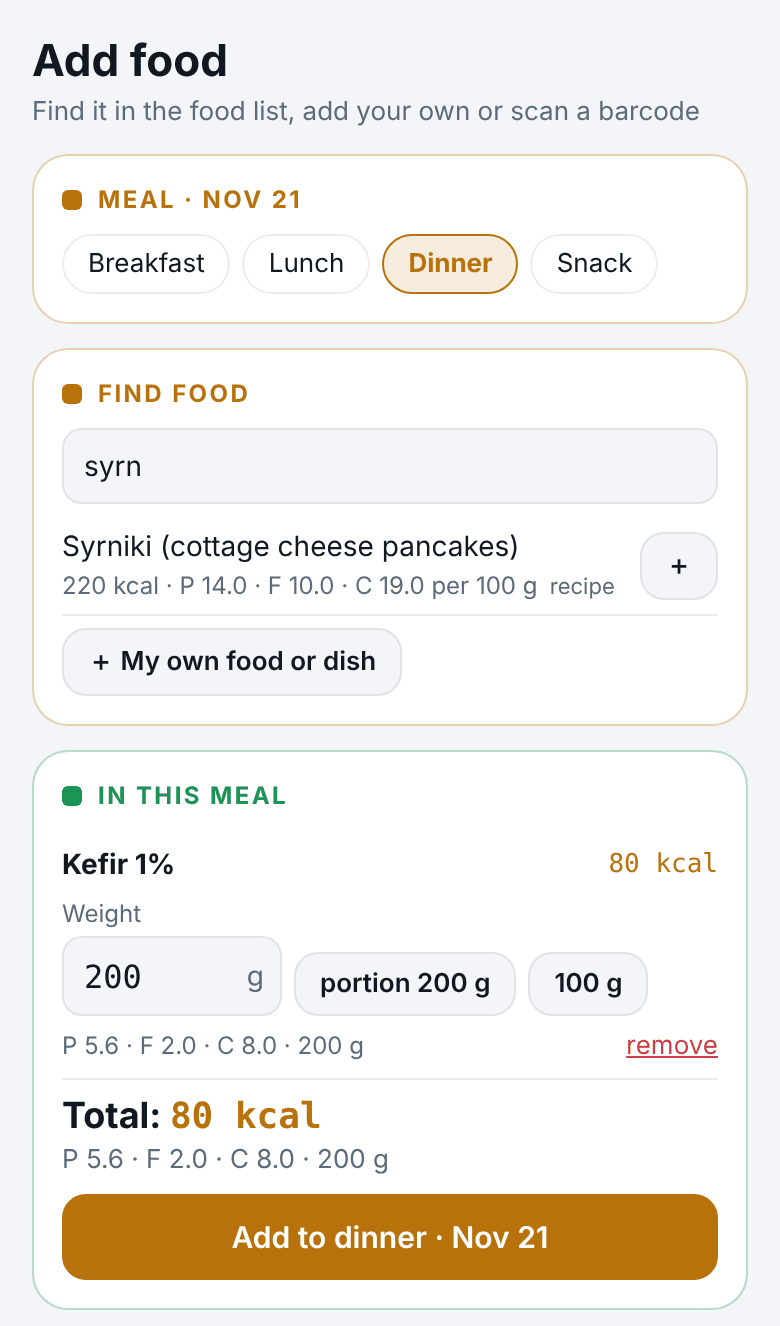
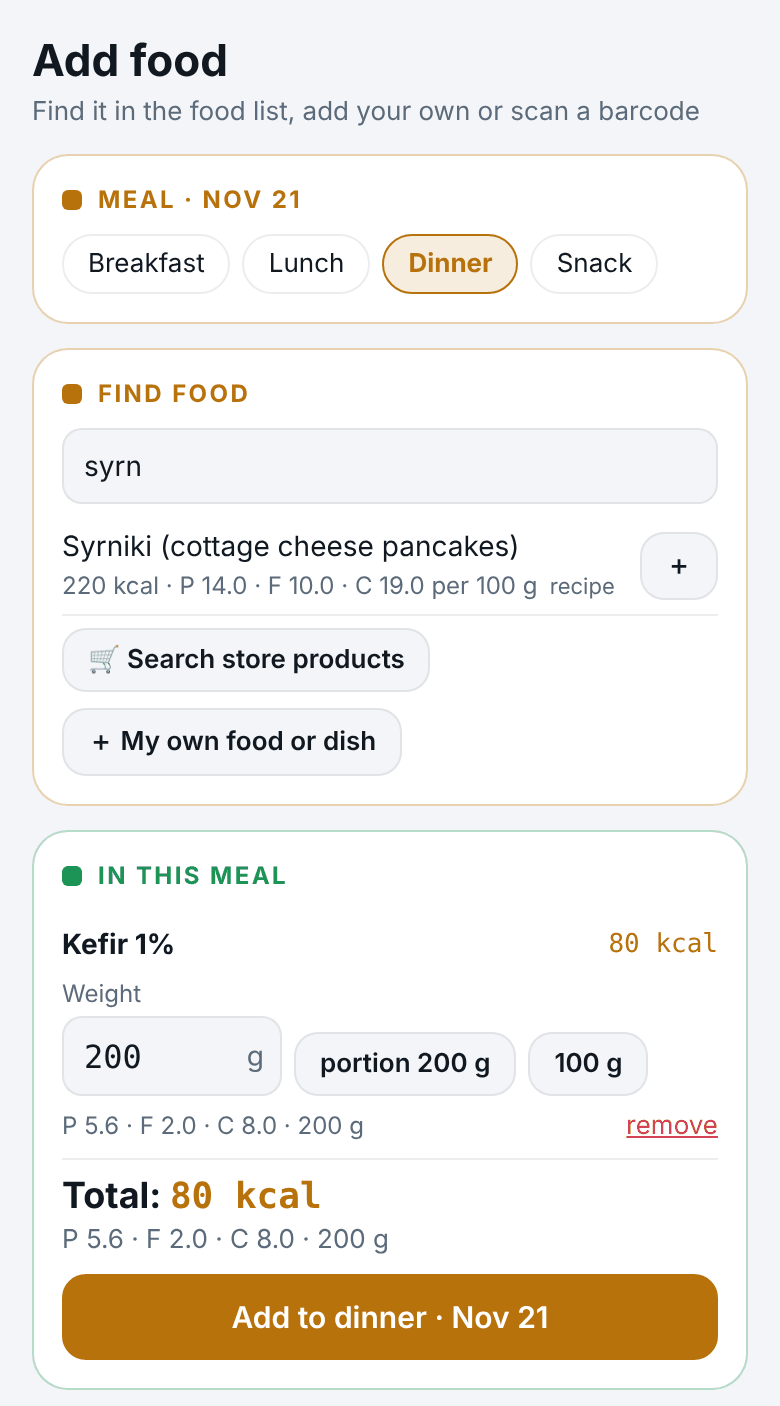
Справочник: поиск магазинных товаров по названию в Open Food Facts
Кнопка «🛒 Искать в магазинных товарах» под результатами поиска; выбранный товар
сохраняется в свои продукты. Запрос только по кнопке (лимит базы ~10 поисков в минуту).

Claude-Session: https://claude.ai/code/session_01HA1pnjPMPVjP7cUuxGQPjo

diff --git a/src/screens/Food.tsx b/src/screens/Food.tsx
@@ -9,7 +9,7 @@ import type { ISODate } from '../core/dates';
 import { FOOD_BY_ID, FOODS, typicalPortion, type Food } from '../core/photo/foods';
 import { searchFoods } from '../core/photo/search';
 import { customFoodError, foodTotals, kcalMismatch, makeCustomFood, mealFromFoods, type CustomFoodInput, type PickedFood } from '../core/photo/custom';
-import { cleanBarcode, fetchOffProduct, OffError } from '../core/photo/off';
+import { cleanBarcode, fetchOffProduct, OffError, searchOffProducts } from '../core/photo/off';
 import { MEAL_SLOTS, type MealSlot } from '../core/types';
 import { useStore } from '../data/store';
 import { Btn, Card, Fields, Gap, Note, NumField, Row, Seg, T, TextField } from '../ui/kit';
@@ -39,12 +39,27 @@ export function FoodScreen({ sel, meal: mealProp, onBack }: { sel: ISODate; meal
   const [done, setDone] = useState<number | null>(null);
   const [own, setOwn] = useState<OwnDraft | null>(null);
   const [info, setInfo] = useState('');
+  // магазинные товары из Open Food Facts: ищем только по кнопке (лимит запросов у базы)
+  const [shop, setShop] = useState<{ q: string; items: Food[]; busy: boolean; err: string } | null>(null);
 
   const all = useMemo(() => [...mine, ...FOODS], [mine]);
   const hits = useMemo(() => searchFoods(query, all, 25).map((h) => h.food), [query, all]);
   const shown = query.trim() ? hits : [...mine.slice(0, 10), ...POPULAR.map((id) => FOOD_BY_ID[id]).filter(Boolean)];
 
+  const searchShop = async () => {
+    const q = query.trim();
+    setShop({ q, items: [], busy: true, err: '' });
+    try {
+      setShop({ q, items: await searchOffProducts(q, L.lang), busy: false, err: '' });
+    } catch (e) {
+      setShop({ q, items: [], busy: false, err: C[e instanceof OffError ? e.code : 'network'] });
+    }
+  };
+
   const pick = (food: Food) => {
+    // товар из магазинной базы сохраняется в свои продукты: второй раз найдётся без сети
+    if (food.source === 'off' && !mine.some((x) => x.id === food.id)) saveFood(food);
+    setShop(null);
     setItems([...items, { food, grams: typicalPortion(food) }]);
     setQuery('');
     setInfo('');
@@ -102,8 +117,20 @@ export function FoodScreen({ sel, meal: mealProp, onBack }: { sel: ISODate; meal
         ))}
         {query.trim() && !hits.length ? <Note>{C.nothing}</Note> : null}
         {info ? <Note color={t.green}>{info}</Note> : null}
+        {shop && shop.q === query.trim() && !shop.busy ? (
+          <>
+            <Gap h={6} />
+            <T muted size={12}>{shop.err || (shop.items.length ? C.shopFound : C.shopNothing)}</T>
+            {shop.items.map((food) => (
+              <FoodRow key={food.id} food={food} onPick={() => pick(food)} />
+            ))}
+          </>
+        ) : null}
         <Gap h={6} />
         <Row>
+          {query.trim().length >= 2 ? (
+            <Btn small title={shop?.busy ? C.finding : C.shopSearch} onPress={searchShop} disabled={!!shop?.busy} testID="shopSearch" />
+          ) : null}
           <Btn small title={C.own} onPress={() => setOwn({ name: query.trim() })} testID="ownFood" />
         </Row>
       </Card>

diff --git a/src/i18n/help.ru.ts b/src/i18n/help.ru.ts
@@ -91,6 +91,7 @@ export const helpRu = {
         'В справочнике около 350 продуктов и блюд: крупы, мясо, рыба, молочное, овощи, фрукты, выпечка, сладкое, напитки и типовые блюда русской кухни. У каждого КБЖУ на 100 г, обычная порция и источник: USDA, российские таблицы состава, маркировка или расчёт по рецепту.',
         'Нажмите на продукт — он попадёт в приём с обычной порцией. Поправьте вес или нажмите «порция», «1 шт» или «100 г». Можно собрать несколько продуктов и добавить их одной записью с пометкой **«из справочника»**: она прибавится к КБЖУ дня, как и запись по фото.',
         '**Свой продукт или блюдо**: если чего-то нет, нажмите «＋ Свой продукт» и впишите КБЖУ на 100 г с упаковки или из рецепта, обычную порцию и вес штуки. Продукт сохранится и будет находиться в поиске, его можно изменить или удалить. Если ккал не сходятся с БЖУ, приложение подскажет, что, возможно, это цифры на порцию.',
+        '**Магазинные товары**: если в справочнике нет нужного товара, нажмите «🛒 Искать в магазинных товарах» — приложение поищет по названию в открытой базе Open Food Facts. Выбранный товар сохранится в ваши продукты.',
         '**Штрихкод**: снимите штрихкод камерой или впишите цифры под ним. Приложение найдёт товар в открытой базе Open Food Facts и сохранит его в ваши продукты, второй раз он найдётся без интернета. Цифры в этой базе вносят люди, поэтому сверьте их с этикеткой. В Safari на iPhone снимок штрихкода не распознаётся, там впишите цифры.',
         'Свои продукты пока хранятся на устройстве и в резервной копии. Общие продукты от куратора появятся вместе с сервером.',
       ],

diff --git a/src/core/photo/catalog.test.ts b/src/core/photo/catalog.test.ts
@@ -3,7 +3,7 @@ import { CATALOG } from './catalog';
 import { CORE, FOOD_BY_ID, FOODS, PHOTO_FOOD_IDS } from './foods';
 import { searchFoods, searchWords } from './search';
 import { customFoodError, foodTotals, kcalMismatch, makeCustomFood, mealFromFoods, mergeCustomFoods, upsertCustomFood } from './custom';
-import { fetchOffProduct, isValidBarcode, OffError, productFromOff } from './off';
+import { fetchOffProduct, isValidBarcode, OffError, productFromOff, searchOffProducts } from './off';
 import { addPhotoMeal } from './meals';
 
 const ids = (q: string, foods = FOODS) => searchFoods(q, foods).map((h) => h.food.id);
@@ -147,5 +147,20 @@ describe('штрихкод: Open Food Facts', () => {
       throw new Error('offline');
     }) as unknown as typeof fetch;
     await expect(fetchOffProduct('4006381333931', 'ru', down)).rejects.toMatchObject({ code: 'network' });
+  });
+
+  it('магазинные товары по названию: только с названием и ккал, без повторов', async () => {
+    let url = '';
+    const fetchFn = (async (u: string) => {
+      url = u;
+      return new Response(JSON.stringify({ products: [{ code: '4006381333931', ...product }, { code: '4006381333931', ...product }, { code: '96385074', product_name: 'Без ккал', nutriments: {} }] }));
+    }) as unknown as typeof fetch;
+    const r = await searchOffProducts('кефир', 'ru', fetchFn);
+    expect(r.map((x) => x.id)).toEqual(['off_4006381333931']);
+    expect(url).toContain('ru.openfoodfacts.org/cgi/search.pl');
+    expect(url).toContain('search_terms=%D0%BA%D0%B5%D1%84%D0%B8%D1%80');
+    expect(await searchOffProducts(' ', 'ru', fetchFn)).toEqual([]);
+    const bad = (async () => new Response('', { status: 503 })) as unknown as typeof fetch;
+    await expect(searchOffProducts('кефир', 'en', bad)).rejects.toMatchObject({ code: 'network' });
   });
 });

diff --git a/src/core/photo/off.ts b/src/core/photo/off.ts
@@ -92,3 +92,41 @@ export async function fetchOffProduct(raw: string, lang: string, fetchFn: typeof
   if (!food) throw new OffError('notFound');
   return food;
 }
+
+/**
+ * Магазинные товары по названию. У Open Food Facts лимит — около 10 поисков в минуту,
+ * поэтому приложение ищет только по кнопке, а не на каждую букву.
+ * Русский интерфейс ищет на ru.openfoodfacts.org (товары, которые продаются в России), иначе — по всему миру.
+ * Товары без названия или без ккал на 100 г пропускаются.
+ */
+export async function searchOffProducts(query: string, lang: string, fetchFn: typeof fetch = fetch, now = Date.now()): Promise<Food[]> {
+  const q = query.trim();
+  if (q.length < 2) return [];
+  const host = lang === 'ru' ? 'https://ru.openfoodfacts.org' : OFF_URL;
+  const params = new URLSearchParams({
+    search_terms: q,
+    search_simple: '1',
+    action: 'process',
+    json: '1',
+    page_size: '20',
+    sort_by: 'unique_scans_n',
+    fields: 'code,product_name,product_name_ru,product_name_en,brands,serving_quantity,nutriments',
+    lc: lang,
+  });
+  let res: Response;
+  try {
+    res = await fetchFn(`${host}/cgi/search.pl?${params}`);
+  } catch {
+    throw new OffError('network');
+  }
+  if (!res.ok) throw new OffError('network');
+  const j = (await res.json().catch(() => null)) as { products?: OffProduct[] } | null;
+  const out: Food[] = [];
+  for (const p of j?.products || []) {
+    const code = cleanBarcode(p.code || '');
+    if (!code || out.some((x) => x.barcode === code)) continue;
+    const food = productFromOff(code, p, lang, now);
+    if (food) out.push(food);
+  }
+  return out;
+}

diff --git a/src/i18n/help.en.ts b/src/i18n/help.en.ts
@@ -91,6 +91,7 @@ export const helpEn: typeof helpRu = {
         'The list has about 350 foods and dishes: grains, meat, fish, dairy, vegetables, fruit, bakery, sweets, drinks and common Russian dishes. Each has calories and macros per 100 g, a typical portion and a source: USDA, Russian composition tables, a typical label or a recipe calculation.',
         'Tap a food to add it to the meal with a typical portion. Change the weight or tap "portion", "1 pc" or "100 g". You can collect several foods and add them as one entry marked **"from food list"**: it adds to the day\'s totals, just like a photo entry.',
         '**Your own food or dish**: if something is missing, tap "＋ My own food" and enter calories and macros per 100 g from the package or the recipe, a typical portion and the weight of one piece. It is saved and shows up in search; you can edit or delete it. If calories do not match the macros, the app warns that these may be per-portion numbers.',
+        '**Store products**: if the food list does not have the product, tap "🛒 Search store products" and the app searches by name in the open Open Food Facts database. The product you pick is saved to your foods.',
         '**Barcode**: scan it with the camera or type the digits under it. The app finds the product in the open Open Food Facts database and saves it to your foods, so next time it is found offline. People enter these numbers, so check them against the label. Safari on iPhone cannot read barcodes from photos; type the digits there.',
         'Your own foods are kept on the device and in the backup for now. Shared foods from your curator will come with the server.',
       ],

diff --git a/src/about/changelog.ts b/src/about/changelog.ts
@@ -13,12 +13,12 @@ export const CHANGELOG: ChangelogEntry[] = [
     ru: [
       'Справочник продуктов: кнопка «＋ Продукт» на «Дне» — около 350 продуктов и блюд с КБЖУ на 100 г, обычной порцией и источником, поиск по-русски и по-английски.',
       'Свои продукты и блюда со своими порциями: сохраняются и находятся в поиске, в том числе при подсчёте по фото.',
-      'Поиск по штрихкоду в открытой базе Open Food Facts: снимок или цифры под штрихкодом.',
+      'Магазинные товары из открытой базы Open Food Facts: поиск по названию или по штрихкоду (снимок или цифры).',
     ],
     en: [
       'Food list: the "＋ Food" button on the Day screen, about 350 foods and dishes with calories and macros per 100 g, a typical portion and a source, searchable in Russian and English.',
       'Your own foods and dishes with your own portions: saved and found in search, including in photo estimates.',
-      'Barcode lookup in the open Open Food Facts database: a photo or the digits under the barcode.',
+      'Store products from the open Open Food Facts database: search by name or by barcode (a photo or the digits).',
     ],
   },
   {

diff --git a/src/help/shots.gen.ts b/src/help/shots.gen.ts
@@ -13,7 +13,7 @@ export const HELP_SHOTS: Record<string, Record<string, HelpShot>> = {
     fact: { src: require('../../assets/help/ru/fact.png'), w: 780, h: 1776 },
     charts: { src: require('../../assets/help/ru/charts.png'), w: 780, h: 1676 },
     photo: { src: require('../../assets/help/ru/photo.png'), w: 780, h: 1614 },
-    food: { src: require('../../assets/help/ru/food.png'), w: 780, h: 1396 },
+    food: { src: require('../../assets/help/ru/food.png'), w: 780, h: 1476 },
     profile: { src: require('../../assets/help/ru/profile.png'), w: 780, h: 1430 },
     goal: { src: require('../../assets/help/ru/goal.png'), w: 780, h: 1198 },
     import: { src: require('../../assets/help/ru/import.png'), w: 780, h: 898 },
@@ -30,7 +30,7 @@ export const HELP_SHOTS: Record<string, Record<string, HelpShot>> = {
     fact: { src: require('../../assets/help/en/fact.png'), w: 780, h: 1736 },
     charts: { src: require('../../assets/help/en/charts.png'), w: 780, h: 1568 },
     photo: { src: require('../../assets/help/en/photo.png'), w: 780, h: 1546 },
-    food: { src: require('../../assets/help/en/food.png'), w: 780, h: 1326 },
+    food: { src: require('../../assets/help/en/food.png'), w: 780, h: 1406 },
     profile: { src: require('../../assets/help/en/profile.png'), w: 780, h: 1286 },
     goal: { src: require('../../assets/help/en/goal.png'), w: 780, h: 1198 },
     import: { src: require('../../assets/help/en/import.png'), w: 780, h: 782 },

diff --git a/src/i18n/ru.ts b/src/i18n/ru.ts
@@ -530,6 +530,9 @@ export const ru = {
     badCode: 'Похоже, в номере опечатка: проверьте цифры под штрихкодом.',
     notFound: 'Этого товара нет в Open Food Facts (или в базе нет калорийности). Добавьте его как свой продукт — штрихкод сохранится.',
     network: 'Нет связи с Open Food Facts. Проверьте интернет или добавьте продукт вручную.',
+    shopSearch: '🛒 Искать в магазинных товарах',
+    shopFound: 'Магазинные товары из Open Food Facts. Цифры вносят люди — сверьте с этикеткой.',
+    shopNothing: 'В Open Food Facts ничего не нашлось. Попробуйте другое слово, штрихкод или добавьте свой продукт.',
     foundOff: 'Нашли в Open Food Facts. Цифры вносят люди — сверьте с этикеткой.',
   },
 

diff --git a/src/i18n/en.ts b/src/i18n/en.ts
@@ -513,6 +513,9 @@ export const en: Dict = {
     badCode: 'Looks like a typo in the number: check the digits under the barcode.',
     notFound: 'This product is not in Open Food Facts (or has no calories there). Add it as your own food: the barcode will be saved.',
     network: 'Cannot reach Open Food Facts. Check the internet or add the food manually.',
+    shopSearch: '🛒 Search store products',
+    shopFound: 'Store products from Open Food Facts. People enter these numbers, so check the label.',
+    shopNothing: 'Nothing found in Open Food Facts. Try another word, the barcode, or add your own food.',
     foundOff: 'Found in Open Food Facts. People enter these numbers, so check the label.',
   },
 

diff --git a/docs/food-catalog.md b/docs/food-catalog.md
@@ -14,7 +14,7 @@
 | `src/core/photo/catalog.ts` | ядро: ~310 строк `[id, ru, en, ккал, Б, Ж, У, источник, {порция, штука, другие названия}]` |
 | `src/core/photo/search.ts` | поиск RU/EN по началу слова, падежи, жирность цифрами («кефир 2,5»), штрихкод |
 | `src/core/photo/custom.ts` | свои продукты, проверка ввода, приём из справочника (`mealFromFoods`) |
-| `src/core/photo/off.ts` | Open Food Facts: проверка штрихкода, запрос, ответ → свой продукт |
+| `src/core/photo/off.ts` | Open Food Facts: штрихкод, поиск магазинных товаров по названию (только по кнопке: лимит ~10 поисков в минуту), ответ → свой продукт |
 | `src/ui/barcode.ts` | штрихкод со снимка через `BarcodeDetector` браузера |
 
 ## Источники
